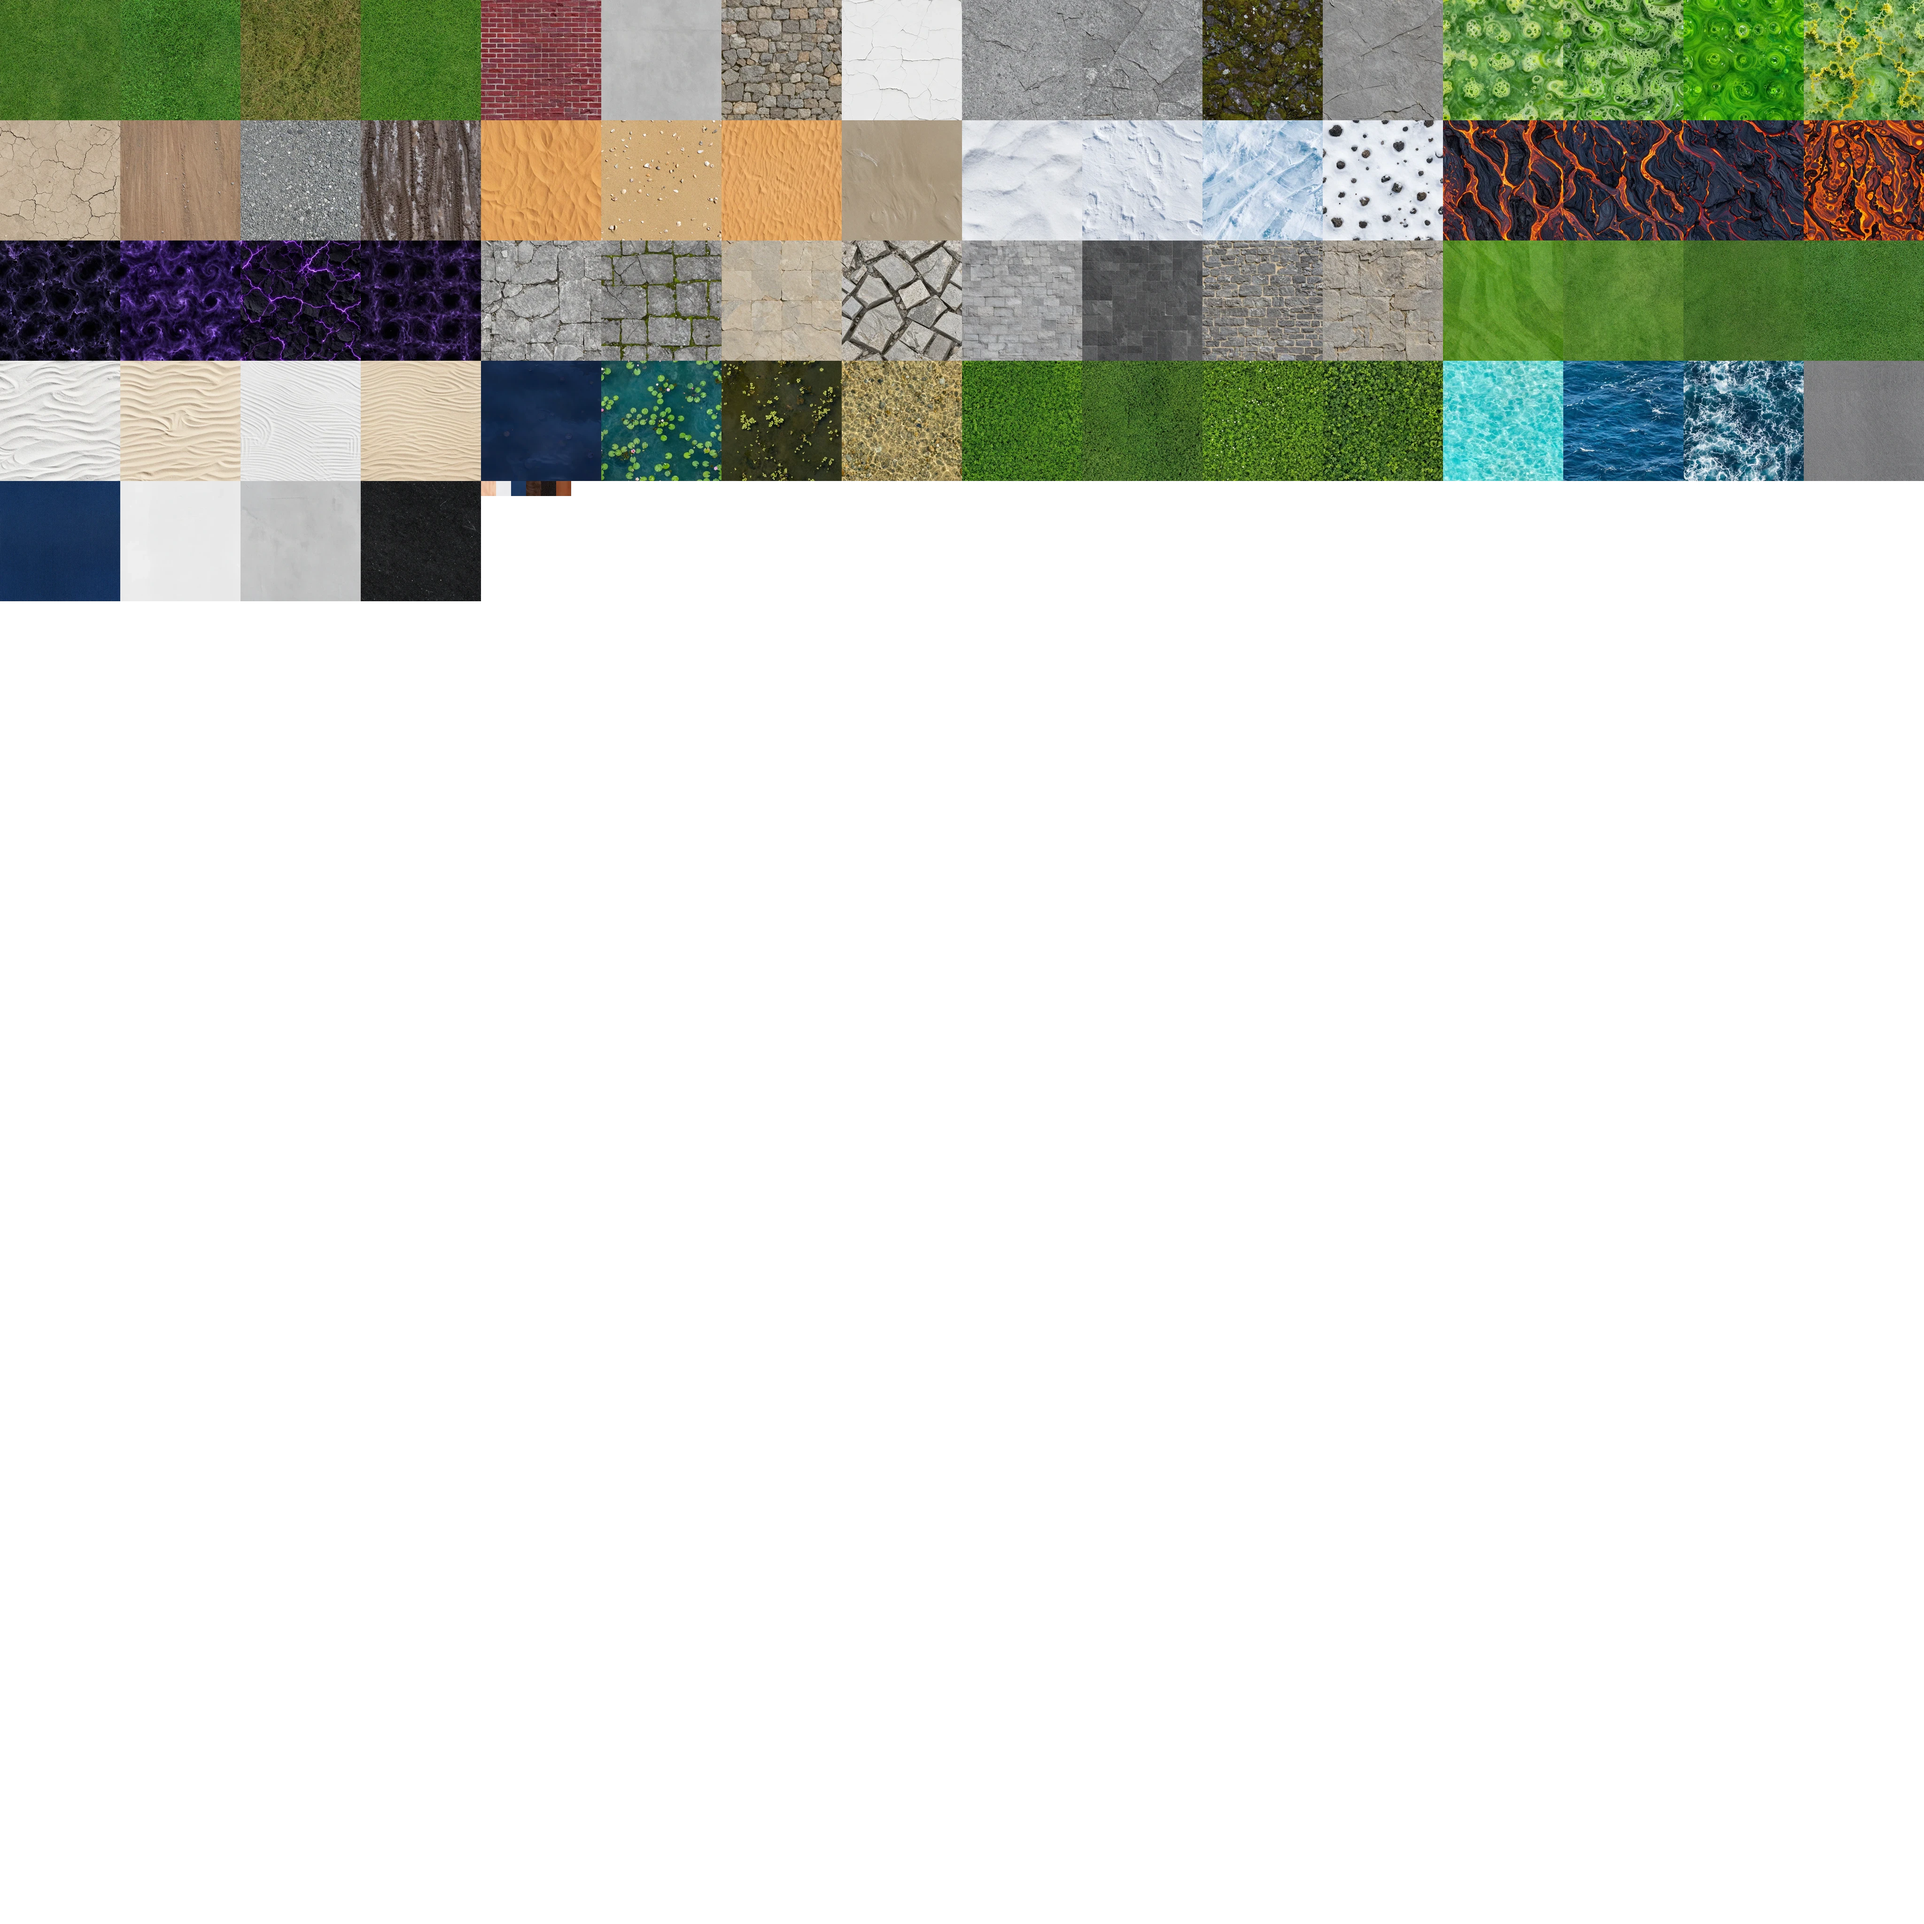
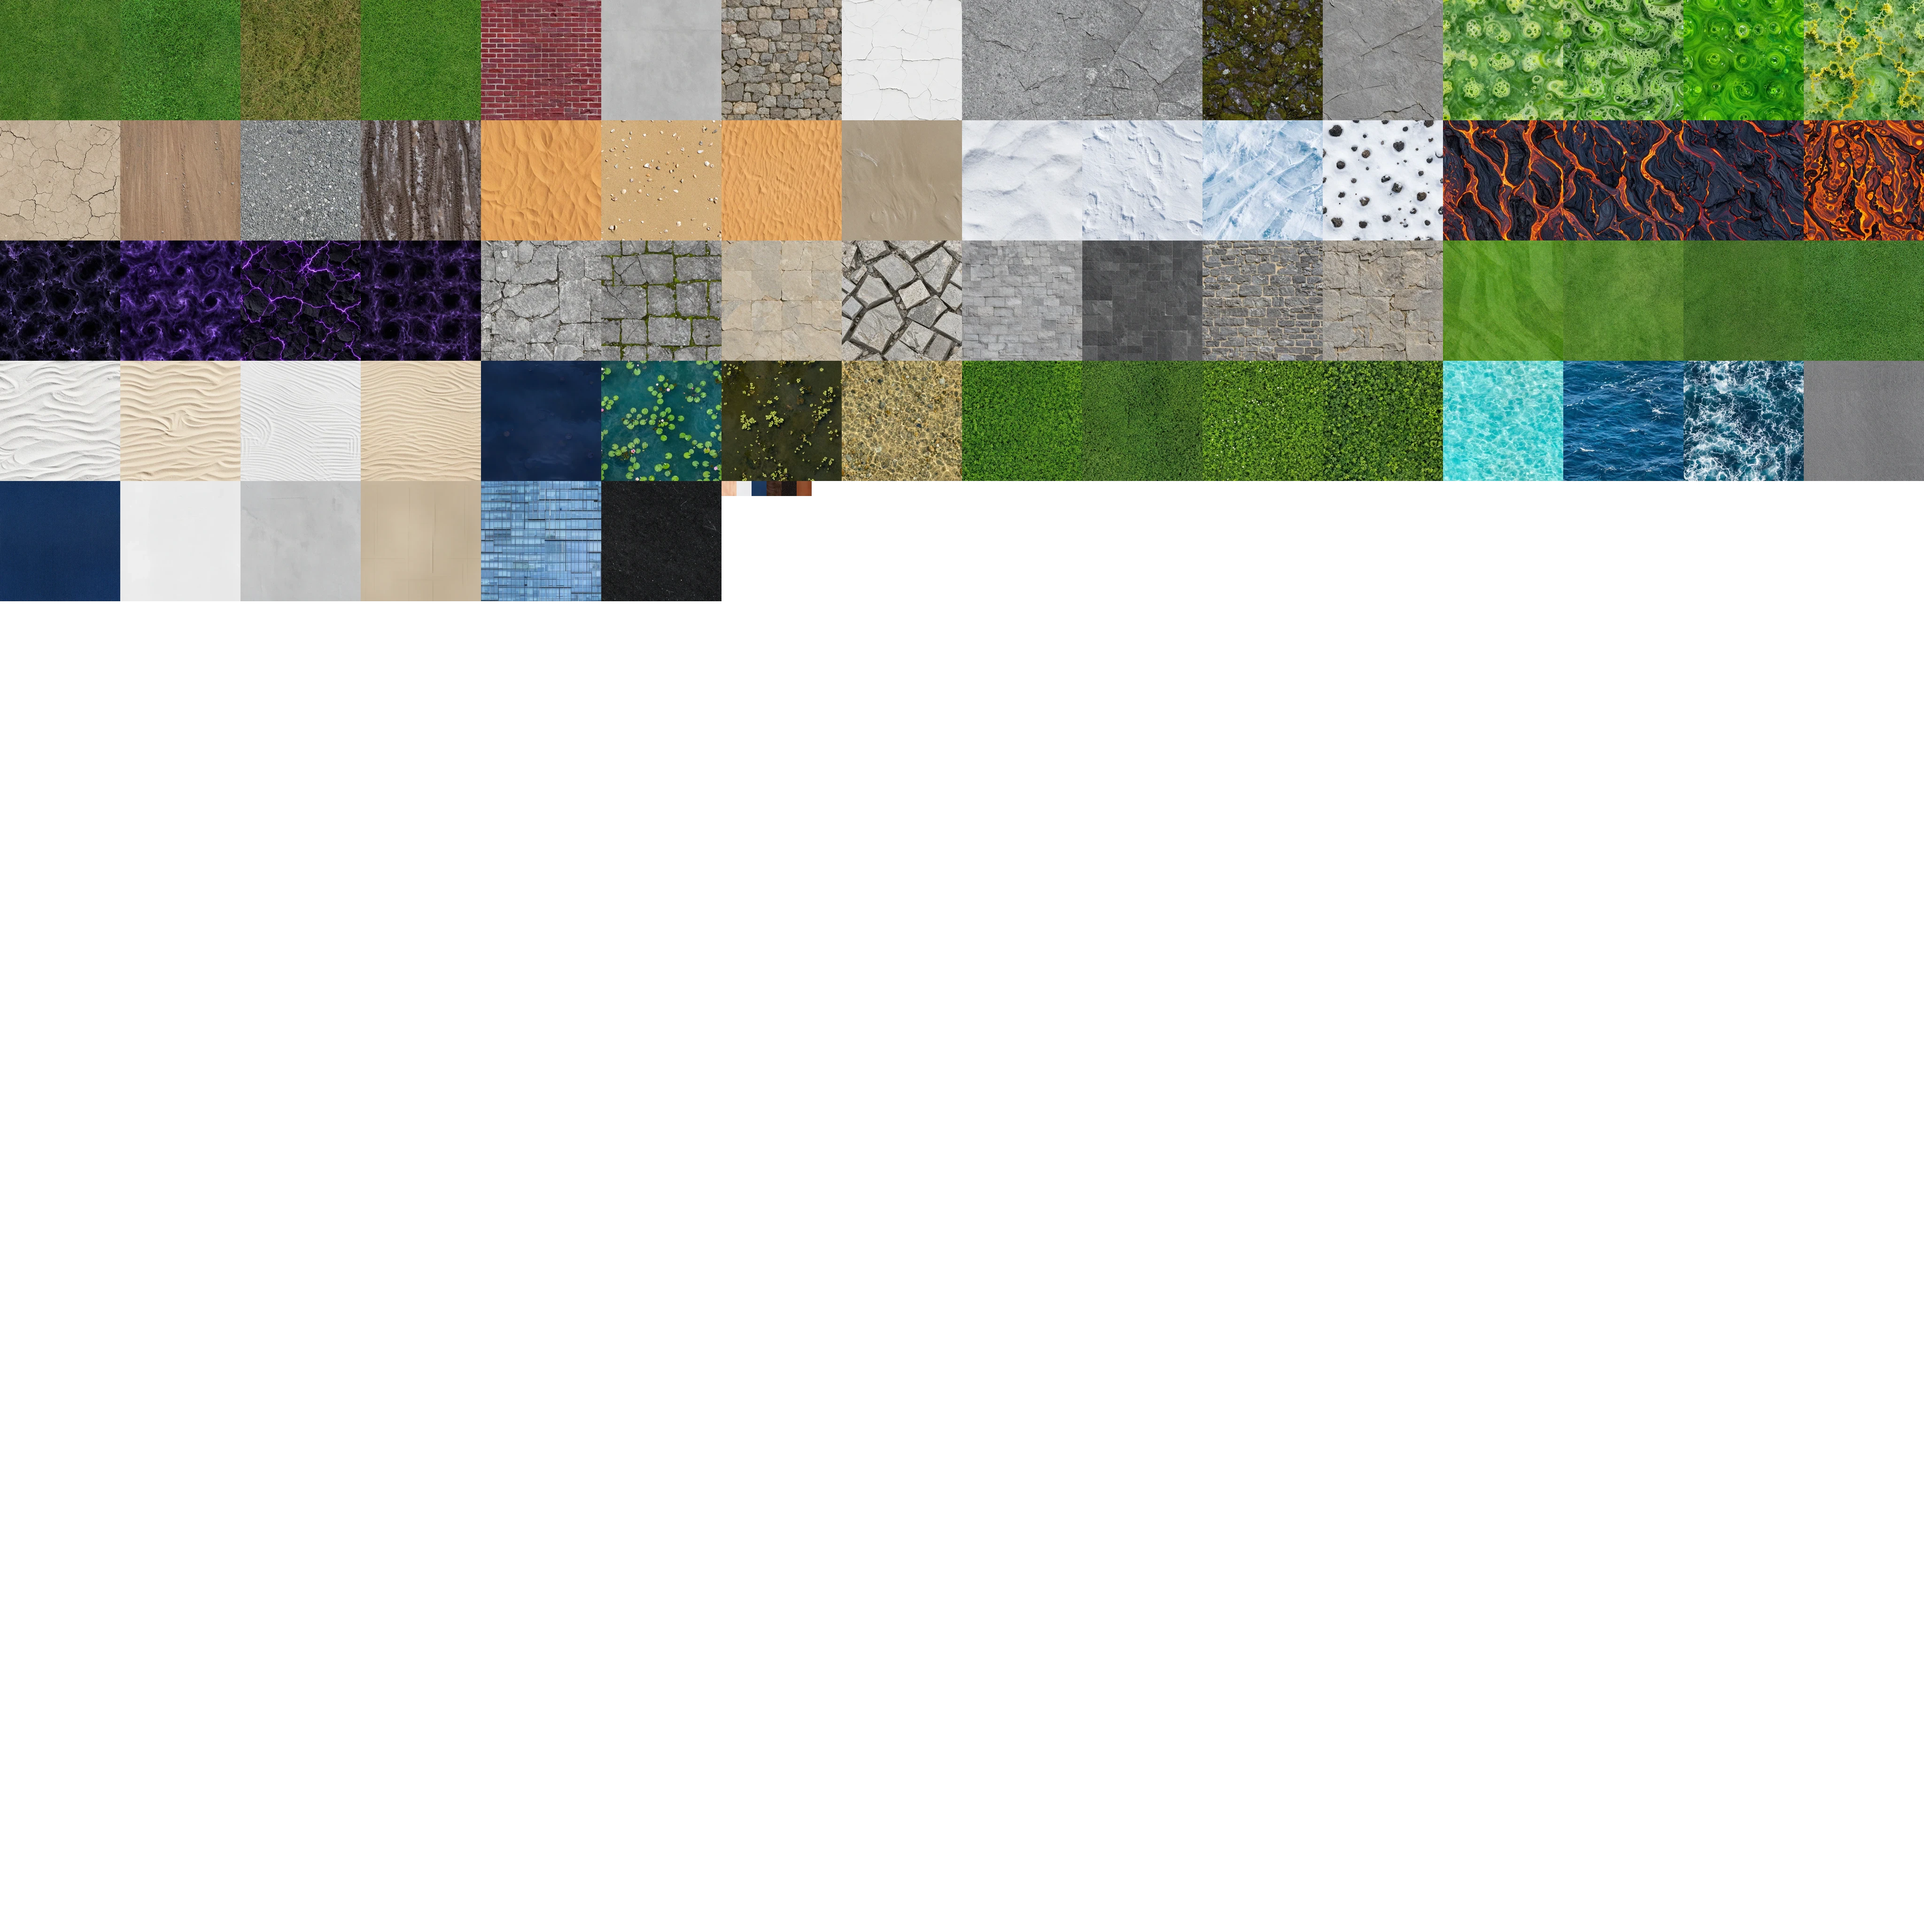
fix: add office_wall_2 and office_wall_3 to atlas packing + regenerate glass texture
- pack-ai-atlas.ts TILE_KEYS was missing office_wall_2 and office_wall_3
- Atlas only packed office_wall_0 and office_wall_1, so textures.exists() returned false
- Regenerated office_wall_3 with glass office building facade prompt
- Rebuilt atlas (76 frames, up from 74)

Changed region(s): [[0.1875, 0.25, 0.4375, 0.3125]]

diff --git a/scripts/generate-ai-assets.ts b/scripts/generate-ai-assets.ts
@@ -235,7 +235,7 @@ const ASSETS: AssetDef[] = [
   tile("office_wall_0", "white painted drywall wall texture with subtle brush strokes, light reflections, faint plaster grain, top-down, tileable", 1105, 2),
   tile("office_wall_1", "light gray painted concrete wall with hairline cracks, subtle stains, industrial office, top-down, tileable", 1106, 2),
   tile("office_wall_2", "beige painted wall with subtle texture, faint wainscoting lines, office interior, top-down, tileable", 1107, 2),
-  tile("office_wall_3", "blue accent wall with vertical stripes pattern, office wallpaper, subtle texture, top-down, tileable", 1108, 2),
+  tile("office_wall_3", "modern glass office building facade, floor-to-ceiling windows with blue tint, subtle reflections, metal window frames, top-down, tileable", 1108, 2),
   tile("kitchen_counter", "granite countertop, black speckled, top-down", 1109, 2),
 
   // ------------------------------------------------------- Tier 3: Office furniture (Nano Banana 2 + Bria RMBG)

diff --git a/client/src/game/boot.ts b/client/src/game/boot.ts
@@ -57,7 +57,7 @@ export class BootScene extends Phaser.Scene {
     });
 
     // AI texture atlases (replaces 124+ individual requests with 4)
-    const atlasVer = "?v=1";
+    const atlasVer = "?v=258";
     this.load.image("ai-tiles-atlas", `assets/atlases/ai-tiles-atlas.webp${atlasVer}`);
     this.load.json("ai-tiles-atlas-meta", `assets/atlases/ai-tiles-atlas.json${atlasVer}`);
     this.load.image("ai-sprites-atlas", `assets/atlases/ai-sprites-atlas.webp${atlasVer}`);

diff --git a/scripts/pack-ai-atlas.ts b/scripts/pack-ai-atlas.ts
@@ -36,7 +36,7 @@ const TILE_KEYS = [
   "hedge_0", "hedge_1", "hedge_2", "hedge_3",
   "water_0", "water_1", "water_2",
   "office_floor_0", "office_floor_1",
-  "office_wall_0", "office_wall_1",
+  "office_wall_0", "office_wall_1", "office_wall_2", "office_wall_3",
   "kitchen_counter",
   "char_skin", "char_shirt_fabric", "char_pants_fabric",
   "char_hair_straight", "char_hair_curly", "char_leather",
